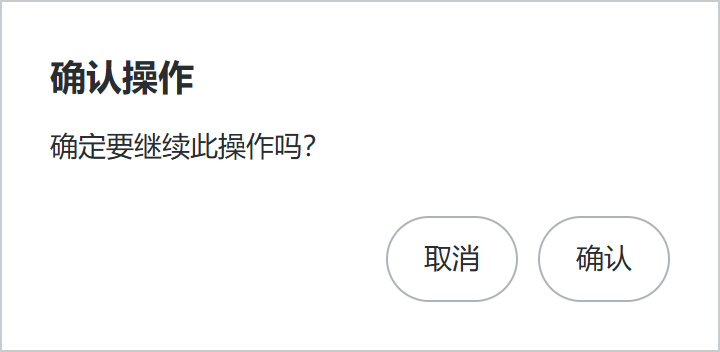
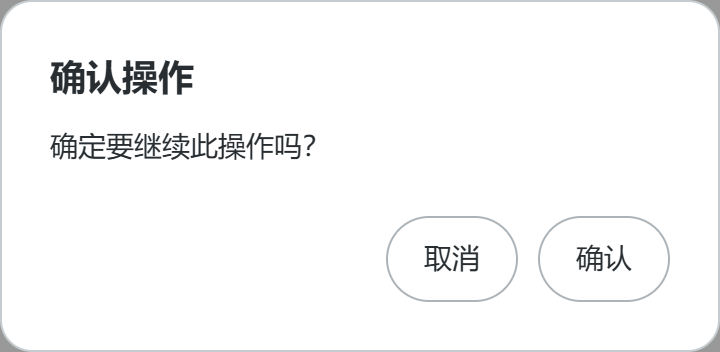
Use rounded corners for confirmation dialog

diff --git a/confirm-dialog/confirm-dialog.css b/confirm-dialog/confirm-dialog.css
@@ -1,7 +1,7 @@
 .ui-confirm-trigger, .ui-confirm__button { box-sizing:border-box; padding:9px 18px; min-height:40px; border:1px solid var(--ui-confirm-border, #adb4b9); border-radius:9999px; background:var(--ui-confirm-button-bg, transparent); color:var(--ui-confirm-color, inherit); font:inherit; cursor:pointer; }
 .ui-confirm-trigger:focus-visible, .ui-confirm__button:focus-visible { outline:2px solid var(--ui-confirm-focus, #747b80); outline-offset:3px; }
 .ui-confirm-trigger:disabled, .ui-confirm__button:disabled { opacity:.5; cursor:not-allowed; }
-.ui-confirm { box-sizing:border-box; width:360px; max-width:calc(100% - 32px); max-height:calc(100% - 32px); overflow:auto; padding:24px; border:1px solid var(--ui-confirm-border, #c6ccd0); border-radius:0; background:var(--ui-confirm-bg, #fff); color:var(--ui-confirm-color, #272d31); font:inherit; }
+.ui-confirm { box-sizing:border-box; width:360px; max-width:calc(100% - 32px); max-height:calc(100% - 32px); overflow:auto; padding:24px; border:1px solid var(--ui-confirm-border, #c6ccd0); border-radius:var(--ui-confirm-radius, 16px); background:var(--ui-confirm-bg, #fff); color:var(--ui-confirm-color, #272d31); font:inherit; }
 .ui-confirm::backdrop { background:var(--ui-confirm-backdrop, #0006); }
 .ui-confirm__title { margin:0 0 8px; font-size:18px; }
 .ui-confirm__description { margin:0; line-height:1.6; overflow-wrap:anywhere; }

diff --git a/confirm-dialog/README.md b/confirm-dialog/README.md
@@ -1,6 +1,6 @@
 # 确认弹窗
 
-弹窗面板采用直角，`border-radius: 0`。
+弹窗面板采用 16px 圆角，可通过 `--ui-confirm-radius` 调整。
 
 引入本目录 CSS 和 JS。点击 data-ui-confirm 指向的 dialog ID 打开，支持 Esc、取消和确认，默认焦点落在取消按钮，关闭后返回触发按钮。监听 dialog 的 ui:confirm 事件，仅在 event.detail.confirmed 为 true 时执行业务操作。也可调用 UiConfirm.open(dialog, opener)。不自动删除或提交业务数据。多个弹窗的 ID 和标题关联 ID 必须唯一。依赖支持原生 dialog.showModal() 的现代浏览器。
 
